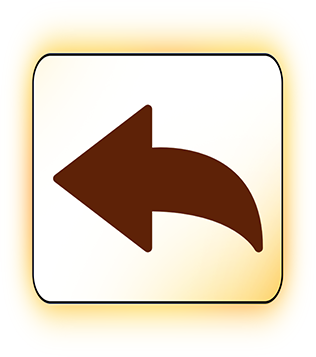
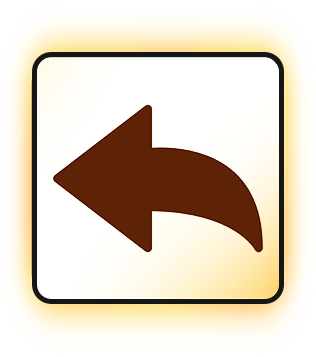
Auto-start at logon on first run, with a per-PC switch; single instance
The museum staff only switch the PC on. The first time the Electron app runs on a PC, it
registers a Windows scheduled task, "KRAF HoloBox" (electron/autostart.cjs). The task starts
the same electron.exe on the same folder 15 s after this user logs on. It keeps running on
battery, has no time limit (Task Scheduler's default would stop it after 72 h), never starts
a second copy, and restarts the app up to three times if it crashes. Each later launch checks
the task still points at this folder and re-registers it if the folder moved. It runs as the
logged-on user with normal rights, so creating it needs no admin (measured on a standard
account). A PC that refuses it anyway falls back to Electron's login item. Every outcome is
logged to .cache/autostart.log.

The switch for our own PCs is a gitignored kiosk.local.json containing
{ "autoStart": false }. With it, the app never sets auto-start up, and it removes the task if
it was set up before. The switch is kept out of tracked code so it can never ship to the
museum. In testing, a file saved with a byte-order mark (as Notepad and PowerShell do) made
JSON.parse fail and the switch was silently ignored. It is now read either way.

The app also takes a single-instance lock, so double-clicking start.bat while the kiosk is
already running brings the running copy forward instead of opening a second one.

Tested with the real app on this PC:
- switch on: the task was created, pointing at node_modules\electron\dist\electron.exe on
[…]

diff --git a/README.md b/README.md
@@ -1619,6 +1619,70 @@ swallows F11. **F11 toggles between fullscreen and a 608×1080 portrait window**
 to whatever it is given, so both modes are correct; 608×1080 is deliberately ~9:16 to match
 the design canvas with almost no letterboxing.
 
+## Auto-start at logon (`electron/autostart.cjs`)
+
+The museum staff only switch the PC on. The kiosk opens by itself (user, 16 Nov 2026).
+
+**What happens on the first run.** The first time the Electron app runs on a PC, it
+registers a Windows scheduled task, **"KRAF HoloBox"**. The task:
+
+- starts that same `electron.exe` on that folder, 15 s after this Windows user logs on;
+- keeps running on battery;
+- has no time limit (Task Scheduler's default would stop it after 72 h);
+- never starts a second copy;
+- restarts the app up to three times if it crashes.
+
+**Later runs.** Each later launch checks that the task is still there and still points at
+this folder, and re-registers it if the folder has moved. So copying the project somewhere
+else and starting it once is enough.
+
+**No admin needed.** It runs as the logged-on user with normal rights, so registering it
+needs no admin (tested on a standard account). If a locked-down PC refuses it anyway, the
+app falls back to Electron's own login item, the per-user Run key. Every outcome is logged
+to `.cache/autostart.log`, so a museum PC can be checked without opening Task Scheduler.
+
+**One copy at a time.** The app now takes a single-instance lock. A staff member
+double-clicking `start.bat` while the kiosk is already running just brings the running copy
+forward. It no longer opens a second full-screen window with a second server.
+
+**The switch, for our own PCs.** Put a `kiosk.local.json` in the repo root:
+
+```json
+{ "autoStart": false }
+```
+
+- `false`: never set up auto-start on this PC, and remove the task if it was set up earlier.
+- No file, or `true`: the museum behaviour.
+
+The file is gitignored on purpose. A switch flipped in tracked code would be committed sooner
+or later, and the museum would get a kiosk that no longer starts itself.
+
+The switch is still read if Notepad saves the file with a byte-order mark, or if a comma is
+out of place. Both used to make the switch be ignored silently.
+
+**How it was tested (16 Nov 2026), on a standard account.**
+
+1. The real app with the switch on: it created the task, pointing at
+   `node_modules\electron\dist\electron.exe "D:\…\HoloBox"` and starting in `HoloBox`.
+2. A second launch exited, leaving the first copy running.
+3. With the switch off, the next run removed the task.
+4. Nothing was left behind: no task, no Run entry.
+
+**What the PC still needs.** The task fires at **logon**, so the museum PC needs Windows
+auto-login (`netplwiz`, untick "Users must enter a user name and password"), or staff must
+log in themselves. Do not also put `start.bat` in the Startup folder. It would be harmless
+because of the single-instance lock, but it is redundant.
+
+**To remove auto-start from a PC:** set the switch to `false` and run the app once, or
+delete the task in Task Scheduler, or run:
+
+```
+schtasks /Delete /TN "KRAF HoloBox" /F
+```
+
+The Chrome fallback in `start.bat` does not set auto-start up. Only the Electron app does,
+and that is what ships.
+
 ## Pressed state
 
 Buttons take a **50% dark-brown wash while held** (`--press-tint`). The tint is a
@@ -1733,7 +1797,8 @@ whether `ui[<label key>]` exists in the manifest.
 ### Kiosk machine setup
 
 Auto-login; sleep, hibernate and screensaver off; Windows Update active hours locked;
-notifications off; `start.bat` in Startup. **Pin Chrome's version or disable its updater** —
+notifications off. Run the app once and it sets itself to open at every logon (see *Auto-start
+at logon*; not on a PC with `kiosk.local.json` switching it off). **Pin Chrome's version or disable its updater** —
 otherwise this runs for eight months and dies on a Tuesday.
 
 ---

diff --git a/HANDOVER.md b/HANDOVER.md
@@ -37,6 +37,22 @@ npm run prepare-assets:force  same, ignoring the "up to date" checks
 `start.bat` prefers the bundled Electron and falls back to Chrome. **Ship Electron**, not
 Chrome: its Chromium is pinned and cannot update itself mid-exhibition. README → *Runtime*.
 
+**Auto-start (16 Nov 2026).** On a new PC, the first run of the Electron app registers a
+Windows scheduled task, "KRAF HoloBox". From then on the kiosk opens by itself 15 s after
+logon. Pair it with Windows auto-login, so the museum staff only have to switch the PC on.
+A second launch just brings the running copy forward.
+
+**On our own development PCs, switch it off** with a gitignored `kiosk.local.json` in the
+repo root:
+
+```json
+{ "autoStart": false }
+```
+
+That also removes the task if it was already set up. The main development PC has this file.
+A colleague's PC without it will set the task up on its first run. Delete it with
+`schtasks /Delete /TN "KRAF HoloBox" /F` if that happens. README → *Auto-start at logon*.
+
 ---
 
 ## 2. Read this before you touch anything
@@ -596,7 +612,9 @@ doing video work; every entry is there because it cost a day.
 5. Leave it running overnight — memory flat, parked on the menu.
 
 **Kiosk machine:** auto-login; sleep, hibernate and screensaver off; Windows Update active
-hours locked; notifications off; `start.bat` in Startup. **Pin Chrome's version or disable
+hours locked; notifications off. Then run the app once. It sets the PC to open the kiosk at
+every logon (the "KRAF HoloBox" scheduled task; README → *Auto-start at logon*), and
+`.cache/autostart.log` says it did. **Pin Chrome's version or disable
 its updater** if you ship the Chrome fallback — otherwise this runs for eight months and dies
 on a Tuesday.
 

diff --git a/PROJECT-FLOW.md b/PROJECT-FLOW.md
@@ -272,6 +272,8 @@ why a colour key cannot separate a rosewood sheath from the wooden stand it rest
 5. Leave it running overnight — memory flat, parked on the menu.
 
 **Kiosk machine:** auto-login; sleep, hibernate and screensaver off; Windows Update active
-hours locked; notifications off; `start.bat` in Startup. If you ship the Chrome fallback
+hours locked; notifications off. Run the app once: it sets the PC to open the kiosk at every
+logon by itself (README → *Auto-start at logon*). On our own PCs a gitignored
+`kiosk.local.json` with `{ "autoStart": false }` switches that off. If you ship the Chrome fallback
 rather than Electron, **pin Chrome's version or disable its updater** — otherwise this runs
 for eight months and dies on a Tuesday.
